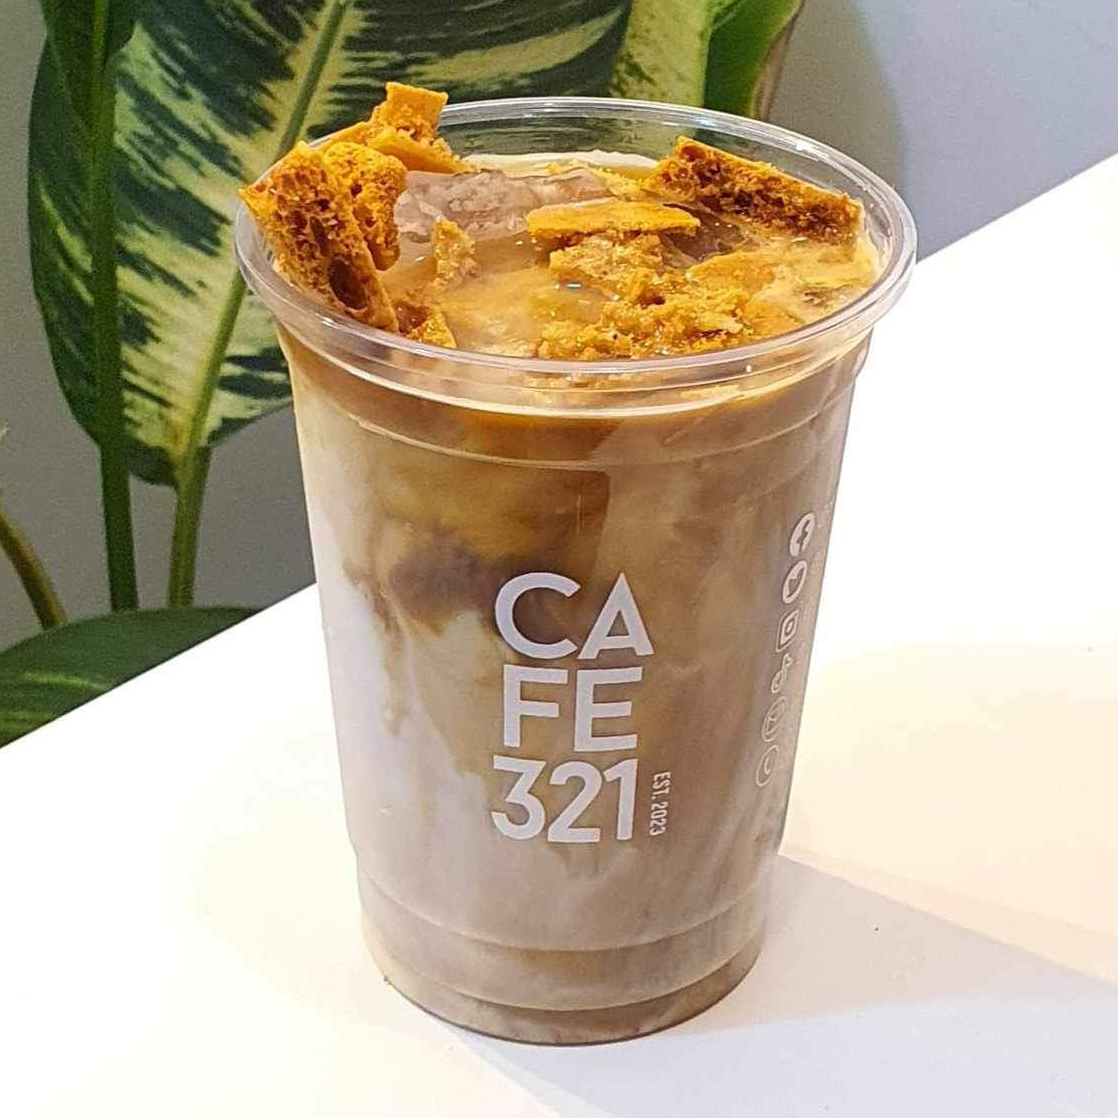
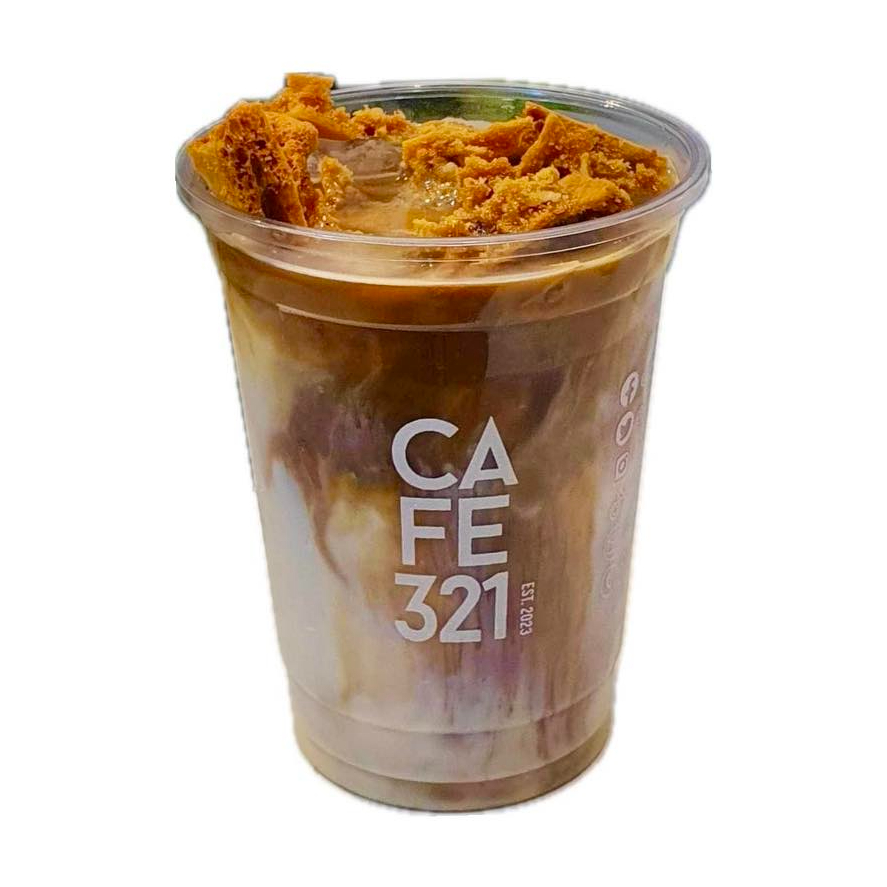
new file:   img/bblueb.jpg 	new file:   img/bloodymaria.jpg 	new file:   img/bluebe.jpg     new file:   img/blufrap.jpg 	new file:   img/blumangof.jpg 	new file:   img/blustraw.jpg 	new file:   img/bsoda.jpg 	new file:   img/cappuccinoiced.jpg 	new file:   img/caramelf.jpg 	new file:   img/caramella

diff --git a/pos.html b/pos.html
@@ -71,7 +71,7 @@
                 <div class="row row-cols-2 row-cols-sm-3 row-cols-md-3 row-cols-lg-5 g-4">
                   <div class="col">
                     <div class="card" onclick="ordercart(1, 'Caramel Frappe', 120.00);selectaudio.play();">
-                      <img draggable="false" src="img/car.jpg" class="card-img-top px-4 pt-4" alt="..." >
+                      <img draggable="false" src="img/caramelf.jpg" class="card-img-top px-4 pt-4" alt="..." >
                       <div class="card-body d-flex flex-column align-items-center">
                         <small class="text-center">Caramel Frappe</small>
                         <p class="card-text fw-bold text-secondary">P 120.00</p>
@@ -80,7 +80,7 @@
                   </div>
                   <div class="col">
                     <div class="card" onclick="ordercart(2, 'Cookies & Cream', 120.00);selectaudio.play();">
-                      <img draggable="false" src="img/ccc.jpg" class="card-img-top px-4 pt-4" alt="...">
+                      <img draggable="false" src="img/cc.jpg" class="card-img-top px-4 pt-4" alt="...">
                       <div class="card-body d-flex flex-column align-items-center">
                         <small class="text-center">Cookies & Cream</small>
                         <p class="card-text fw-bold text-secondary">P 120.00</p>
@@ -89,7 +89,7 @@
                   </div>
                   <div class="col">
                     <div class="card" onclick="ordercart(2, 'Cookie Crumble', 130.00);selectaudio.play();">
-                      <img draggable="false" src="img/crumble.jpg" class="card-img-top px-4 pt-4" alt="...">
+                      <img draggable="false" src="img/carcrum.jpg" class="card-img-top px-4 pt-4" alt="...">
                       <div class="card-body d-flex flex-column align-items-center">
                         <small class="text-center">Cookie Crumble</small>
                         <p class="card-text fw-bold text-secondary">P 130.00</p>
@@ -98,7 +98,7 @@
                   </div>
                   <div class="col">
                     <div class="card" onclick="ordercart(3, 'Chocolate Overload', 130.00);selectaudio.play();">
-                      <img draggable="false" src="img/col1.jpg" class="card-img-top px-4 pt-4" alt="...">
+                      <img draggable="false" src="img/chocolateover.jpg" class="card-img-top px-4 pt-4" alt="...">
                       <div class="card-body d-flex flex-column align-items-center">
                         <small class="text-center">Choco Overload</small>
                         <p class="card-text fw-bold text-secondary">P 120.00</p>
@@ -107,7 +107,7 @@
                   </div>
                   <div class="col">
                     <div class="card" onclick="ordercart(4, 'Dark Mocha', 120.00);selectaudio.play();">
-                      <img draggable="false" src="img/dmf.jpg" class="card-img-top px-4 pt-4" alt="...">
+                      <img draggable="false" src="img/darkm.jpg" class="card-img-top px-4 pt-4" alt="...">
                       <div class="card-body d-flex flex-column align-items-center">
                         <small class="text-center">Dark Mocha</small>
                         <p class="card-text fw-bold text-secondary">P 120.00</p>
@@ -116,7 +116,7 @@
                   </div>
                   <div class="col">
                     <div class="card" onclick="ordercart(5, 'Java Chip', 120.00);selectaudio.play();">
-                      <img draggable="false" src="img/java.jpg" class="card-img-top px-4 pt-4" alt="...">
+                      <img draggable="false" src="img/javachip.jpg" class="card-img-top px-4 pt-4" alt="...">
                       <div class="card-body d-flex flex-column align-items-center">
                         <small class="text-center">Java Chip </small>
                         <p class="card-text fw-bold text-secondary">P 120.00</p>
@@ -125,7 +125,7 @@
                   </div>
                   <div class="col">
                     <div class="card" onclick="ordercart(6, 'Peppermint Mocha', 120.00);selectaudio.play();">
-                      <img draggable="false" src="img/pepper.jpg" class="card-img-top px-4 pt-4" alt="...">
+                      <img draggable="false" src="img/peppermintf.jpg" class="card-img-top px-4 pt-4" alt="...">
                       <div class="card-body d-flex flex-column align-items-center">
                         <small class="text-center">Peppermint</small>
                         <p class="card-text fw-bold text-secondary">P 120.00</p>
@@ -134,7 +134,7 @@
                   </div>
                   <div class="col">
                     <div class="card" onclick="ordercart(6, 'Milky Matcha', 120.00);selectaudio.play();">
-                      <img draggable="false" src="img/milky1.jpg" class="card-img-top px-4 pt-4" alt="...">
+                      <img draggable="false" src="img/milky matchaf.jpg" class="card-img-top px-4 pt-4" alt="...">
                       <div class="card-body d-flex flex-column align-items-center">
                         <small>Milky Matcha</small>
                         <p class="card-text text-truncate fw-bold text-secondary">P 120.00</p>
@@ -143,7 +143,7 @@
                   </div>
                   <div class="col">
                     <div class="card" onclick="ordercart(7, 'Dirty Matcha', 130.00);selectaudio.play();">
-                      <img draggable="false" src="img/logologo.png" class="card-img-top px-4 pt-4" alt="...">
+                      <img draggable="false" src="img/milky matchaf.jpg" class="card-img-top px-4 pt-4" alt="...">
                       <div class="card-body d-flex flex-column align-items-center">
                         <small>Dirty Matcha</small>
                         <p class="card-text text-truncate fw-bold text-secondary">P 130.00</p>
@@ -152,7 +152,7 @@
                   </div>
                   <div class="col">
                     <div class="card" onclick="ordercart(8, 'White Mocha', 120.00);selectaudio.play();">
-                      <img draggable="false" src="img/logologo.png" class="card-img-top px-4 pt-4" alt="...">
+                      <img draggable="false" src="img/whitecc.jpg" class="card-img-top px-4 pt-4" alt="...">
                       <div class="card-body d-flex flex-column align-items-center">
                         <small>White Mocha</small>
                         <p class="card-text text-truncate fw-bold text-secondary">P 120.00</p>
@@ -160,8 +160,18 @@
                     </div>
                   </div>
                   <div class="col">
+                    <div class="card" onclick="ordercart(8, 'White Choco Crumble', 120.00);selectaudio.play();">
+                      <img draggable="false" src="img/whitecrumbles.jpg" class="card-img-top px-4 pt-4" alt="...">
+                      <div class="card-body d-flex flex-column align-items-center">
+                        <small>WC Crumble</small>
+                        <p class="card-text text-truncate fw-bold text-secondary">P 120.00</p>
+                      </div>
+                    </div>
+                  </div>
+
+                  <div class="col">
                     <div class="card" onclick="ordercart(9, 'White Choco', 120.00);selectaudio.play();">
-                      <img draggable="false" src="img/whitechocofrappe.jpg" class="card-img-top px-4 pt-4" alt="...">
+                      <img draggable="false" src="img/whitecc.jpg" class="card-img-top px-4 pt-4" alt="...">
                       <div class="card-body d-flex flex-column align-items-center">
                         <small>White Choco</small>
                         <p class="card-text text-truncate fw-bold text-secondary">P 120.00</p>
@@ -170,7 +180,7 @@
                   </div>
                   <div class="col">
                     <div class="card" onclick="ordercart(13, 'Zombie', 110.00);selectaudio.play();">
-                      <img draggable="false" src="img/zzz.jpg" class="card-img-top px-4 pt-4" alt="...">
+                      <img draggable="false" src="img/zombiefra.jpg" class="card-img-top px-4 pt-4" alt="...">
                       <div class="card-body d-flex flex-column align-items-center">
                         <small>Zombie </small>
                         <p class="card-text fw-bold text-secondary">P 110.00</p>
@@ -179,7 +189,7 @@
                   </div>
                   <div class="col">
                     <div class="card" onclick="ordercart(14, 'Bloody Mary', 110.00);selectaudio.play();">
-                      <img draggable="false" src="img/bb.jpg" class="card-img-top px-4 pt-4" alt="...">
+                      <img draggable="false" src="img/bloodymaria.jpg" class="card-img-top px-4 pt-4" alt="...">
                       <div class="card-body d-flex flex-column align-items-center">
                         <small>Bloody Mary</small>
                         <p class="card-text fw-bold text-secondary">P 110.00</p>
@@ -188,7 +198,7 @@
                   </div>
                   <div class="col">
                     <div class="card" onclick="ordercart(10, 'Strawberry Frappe', 110.00);selectaudio.play();">
-                      <img draggable="false" src="img/sf.jpg" class="card-img-top px-4 pt-4" alt="...">
+                      <img draggable="false" src="img/strawberyyfra.jpg" class="card-img-top px-4 pt-4" alt="...">
                       <div class="card-body d-flex flex-column align-items-center">
                         <small>Strawberry</small>
                         <p class="card-text text-truncate fw-bold text-secondary">P 110.00</p>
@@ -197,7 +207,7 @@
                   </div>
                   <div class="col">
                     <div class="card" onclick="ordercart(11, ' Blueberry', 110.00);selectaudio.play();">
-                      <img draggable="false" src="img/blube.jpg" class="card-img-top px-4 pt-4" alt="...">
+                      <img draggable="false" src="img/blufrap.jpg" class="card-img-top px-4 pt-4" alt="...">
                       <div class="card-body d-flex flex-column align-items-center">
                         <small>Blueberry</small>
                         <p class="card-text fw-bold text-secondary">P 110.00</p>
@@ -206,7 +216,7 @@
                   </div>
                   <div class="col">
                     <div class="card" onclick="ordercart(12, 'Mango', 110.00);selectaudio.play();">
-                      <img draggable="false" src="img/mangof.jpg" class="card-img-top px-4 pt-4" alt="...">
+                      <img draggable="false" src="img/mango frappe.jpg" class="card-img-top px-4 pt-4" alt="...">
                       <div class="card-body d-flex flex-column align-items-center">
                         <small>Mango</small>
                         <p class="card-text fw-bold text-secondary">P 110.00</p>
@@ -214,8 +224,8 @@
                     </div>
                   </div>
                   <div class="col">
-                    <div class="card" onclick="ordercart(15, 'BOGO SB', 199.00);selectaudio.play();">
-                      <img draggable="false" src="img/sm.png" class="card-img-top px-4 pt-4" alt="...">
+                    <div class="card" onclick="ordercart(15, 'BOGO BS', 199.00);selectaudio.play();">
+                      <img draggable="false" src="img/blustraw.jpg" class="card-img-top px-4 pt-4" alt="...">
                       <div class="card-body d-flex flex-column align-items-center">
                         <small>BOGO BS</small>
                         <p class="card-text fw-bold text-secondary">P 199.00</p>
@@ -223,26 +233,26 @@
                     </div>
                   </div>
                   <div class="col">
-                    <div class="card" onclick="ordercart(16, 'BOGO SM', 199.00);selectaudio.play();">
-                      <img draggable="false" src="img/ms.png"  class="card-img-top px-4 pt-4" alt="...">
+                    <div class="card" onclick="ordercart(16, 'BOGO BM', 199.00);selectaudio.play();">
+                      <img draggable="false" src="img/blumangof.jpg"  class="card-img-top px-4 pt-4" alt="...">
                       <div class="card-body d-flex flex-column align-items-center">
-                        <small>BOGO SS</small>
+                        <small>BOGO BM</small>
                         <p class="card-text fw-bold text-secondary">P 199.00</p>
                       </div>
                     </div>
                   </div>
                   <div class="col">
-                    <div class="card" onclick="ordercart(17, 'BOGO MB', 199.00);selectaudio.play();">
-                      <img draggable="false" src="img/sbm.jpg" class="card-img-top px-4 pt-4" alt="...">
+                    <div class="card" onclick="ordercart(17, 'BOGO MS', 199.00);selectaudio.play();">
+                      <img draggable="false" src="img/mstarw.jpg" class="card-img-top px-4 pt-4" alt="...">
                       <div class="card-body d-flex flex-column align-items-center">
-                        <small>BOGO MB</small>
+                        <small>BOGO MS</small>
                         <p class="card-text fw-bold text-secondary">P 199.00</p>
                       </div>
                     </div>
                   </div>
                   <div class="col">
                     <div class="card" onclick="ordercart(18, 'BOGO SS', 199.00);selectaudio.play();">
-                      <img draggable="false" src="img/sbm.jpg" class="card-img-top px-4 pt-4" alt="...">
+                      <img draggable="false" src="img/sstraw.jpg" class="card-img-top px-4 pt-4" alt="...">
                       <div class="card-body d-flex flex-column align-items-center">
                         <small>BOGO SS</small>
                       <p class="card-text fw-bold text-secondary">P 199.00</p>
@@ -251,7 +261,7 @@
                   </div>
                   <div class="col">
                     <div class="card" onclick="ordercart(19, 'BOGO BB', 199.00);selectaudio.play();">
-                      <img draggable="false" src="img/sbm.jpg" class="card-img-top px-4 pt-4" alt="...">
+                      <img draggable="false" src="img/bblueb.jpg" class="card-img-top px-4 pt-4" alt="...">
                       <div class="card-body d-flex flex-column align-items-center">
                         <small>BOGO BB</small>
                         <p class="card-text fw-bold text-secondary">P 199.00</p>
@@ -260,7 +270,7 @@
                   </div>
                   <div class="col">
                     <div class="card" onclick="ordercart(20, 'BOGO MM', 199.00);selectaudio.play();">
-                      <img draggable="false" src="img/sbm.jpg" class="card-img-top px-4 pt-4" alt="...">
+                      <img draggable="false" src="img/mmanag.jpg" class="card-img-top px-4 pt-4" alt="...">
                       <div class="card-body d-flex flex-column align-items-center">
                         <small>BOGO MM</small>
                       <p class="card-text fw-bold text-secondary">P 199.00</p>
@@ -283,7 +293,7 @@
                   </div>
                   <div class="col">
                     <div class="card" onclick="ordercart(22, 'Cappuccino', 80.00);selectaudio.play();">
-                      <img draggable="false" src="img/coldca.jpg" class="card-img-top px-4 pt-4" alt="...">
+                      <img draggable="false" src="img/cappuccinoiced.jpg" class="card-img-top px-4 pt-4" alt="...">
                       <div class="card-body d-flex flex-column align-items-center">
                         <small>Cappuccino</small>
                         <p class="card-text fw-bold text-secondary">P 80.00</p>
@@ -301,7 +311,7 @@
                   </div>
                   <div class="col">
                     <div class="card" onclick="ordercart(24, 'Caramel Macchiatto', 110.00);selectaudio.play();">
-                      <img draggable="false" src="img/ccol.jpg" class="card-img-top px-4 pt-4" alt="...">
+                      <img draggable="false" src="img/iced caramelm.jpg" class="card-img-top px-4 pt-4" alt="...">
                       <div class="card-body d-flex flex-column align-items-center">
                         <small>C. Macchiatto</small>
                         <p class="card-text fw-bold text-secondary">P 110.00</p>
@@ -309,8 +319,17 @@
                     </div>
                   </div>
                   <div class="col">
+                    <div class="card" onclick="ordercart(24, 'Caramel Latte', 110.00);selectaudio.play();">
+                      <img draggable="false" src="img/caramella.jpg" class="card-img-top px-4 pt-4" alt="...">
+                      <div class="card-body d-flex flex-column align-items-center">
+                        <small>Caramel Latte</small>
+                        <p class="card-text fw-bold text-secondary">P 110.00</p>
+                      </div>
+                    </div>
+                  </div>
+                  <div class="col">
                     <div class="card" onclick="ordercart(25, 'Dark Mocha', 110.00);selectaudio.play();">
-                      <img draggable="false" src="img/darkmocha.jpg" class="card-img-top px-4 pt-4" alt="...">
+                      <img draggable="false" src="img/darkmoca.jpg" class="card-img-top px-4 pt-4" alt="...">
                       <div class="card-body d-flex flex-column align-items-center">
                         <small>Dark Mocha</small>
                         <p class="card-text fw-bold text-secondary">P 110.00</p>
@@ -337,7 +356,7 @@
                   </div>
                   <div class="col">
                     <div class="card" onclick="ordercart(28, 'Dalgona Latte', 110.00);selectaudio.play();">
-                      <img draggable="false" src="img/dalgona.jpg" class="card-img-top px-4 pt-4" alt="...">
+                      <img draggable="false" src="img/dal.jpg" class="card-img-top px-4 pt-4" alt="...">
                       <div class="card-body d-flex flex-column align-items-center">
                         <small>Dalgona Latte</small>
                         <p class="card-text fw-bold text-secondary">P 110.00</p>
@@ -346,7 +365,7 @@
                   </div>
                   <div class="col">
                     <div class="card" onclick="ordercart(29, 'Milky Matcha', 120.00);selectaudio.play();">
-                      <img draggable="false" src="img/mmtcha.jpg" class="card-img-top px-4 pt-4" alt="...">
+                      <img draggable="false" src="img/milky matcha.jpg" class="card-img-top px-4 pt-4" alt="...">
                       <div class="card-body d-flex flex-column align-items-center">
                         <small>Milky Matcha</small>
                         <p class="card-text fw-bold text-secondary">P 120.00</p>
@@ -364,7 +383,7 @@
                   </div>
                   <div class="col">
                     <div class="card" onclick="ordercart(31, 'Blueberry Latte', 100.00);selectaudio.play();">
-                      <img draggable="false" src="img/blat.jpg" class="card-img-top px-4 pt-4" alt="...">
+                      <img draggable="false" src="img/bluebe.jpg" class="card-img-top px-4 pt-4" alt="...">
                       <div class="card-body d-flex flex-column align-items-center">
                         <small>Blueberry Latte</small>
                         <p class="card-text fw-bold text-secondary">P 100.00</p>
@@ -510,7 +529,7 @@
                 <div class="row row-cols-2 row-cols-sm-3 row-cols-md-3 row-cols-lg-5 g-4">
                   <div class="col">
                     <div class="card" onclick="ordercart(46, 'Strawberry Ade', 80.00);selectaudio.play();">
-                      <img draggable="false" src="img/sade.jpg" class="card-img-top px-4 pt-4" alt="...">
+                      <img draggable="false" src="img/sodas.jpg" class="card-img-top px-4 pt-4" alt="...">
                       <div class="card-body d-flex flex-column align-items-center">
                         <small>Strawberry Ade</small>
                         <p class="card-text fw-bold text-secondary">P 80.00</p>
@@ -519,7 +538,7 @@
                   </div>
                   <div class="col">
                     <div class="card" onclick="ordercart(47, 'Blueberry Ade', 80.00);selectaudio.play();">
-                      <img draggable="false" src="img/bade.jpg" class="card-img-top px-4 pt-4" alt="...">
+                      <img draggable="false" src="img/bsoda.jpg" class="card-img-top px-4 pt-4" alt="...">
                       <div class="card-body d-flex flex-column align-items-center">
                         <small>Blueberry Ade</small>
                         <p class="card-text fw-bold text-secondary">P 80.00</p>
@@ -528,7 +547,7 @@
                   </div>
                   <div class="col">
                     <div class="card" onclick="ordercart(48, 'Mango Ade', 80.00);selectaudio.play();">
-                      <img draggable="false" src="img/made.jpg" class="card-img-top px-4 pt-4" alt="...">
+                      <img draggable="false" src="img/mangoade.jpg" class="card-img-top px-4 pt-4" alt="...">
                       <div class="card-body d-flex flex-column align-items-center">
                         <small>Mango Ade</small>
                         <p class="card-text fw-bold text-secondary">P 80.00</p>
@@ -551,7 +570,7 @@
                   </div>
                   <div class="col">
                     <div class="card" onclick="ordercart(50, 'Hawaian Delight', 150.00);selectaudio.play();">
-                      <img draggable="false" src="img/hawaian.jpg" class="card-img-top px-4 pt-4" alt="...">
+                      <img draggable="false" src="img/hawaianp.jpg" class="card-img-top px-4 pt-4" alt="...">
                       <div class="card-body d-flex flex-column align-items-center">
                         <small>Hawaian Delight</small>
                         <p class="card-text fw-bold text-secondary">P 150.00</p>
@@ -560,7 +579,7 @@
                   </div>
                   <div class="col">
                     <div class="card" onclick="ordercart(51, 'Pepperoni', 150.00);selectaudio.play();">
-                      <img draggable="false" src="img/pepperoni.jpg" class="card-img-top px-4 pt-4" alt="...">
+                      <img draggable="false" src="img/pepperonip.jpg" class="card-img-top px-4 pt-4" alt="...">
                       <div class="card-body d-flex flex-column align-items-center">
                         <small>Pepperoni</small>
                         <p class="card-text fw-bold text-secondary">P 150.00</p>
